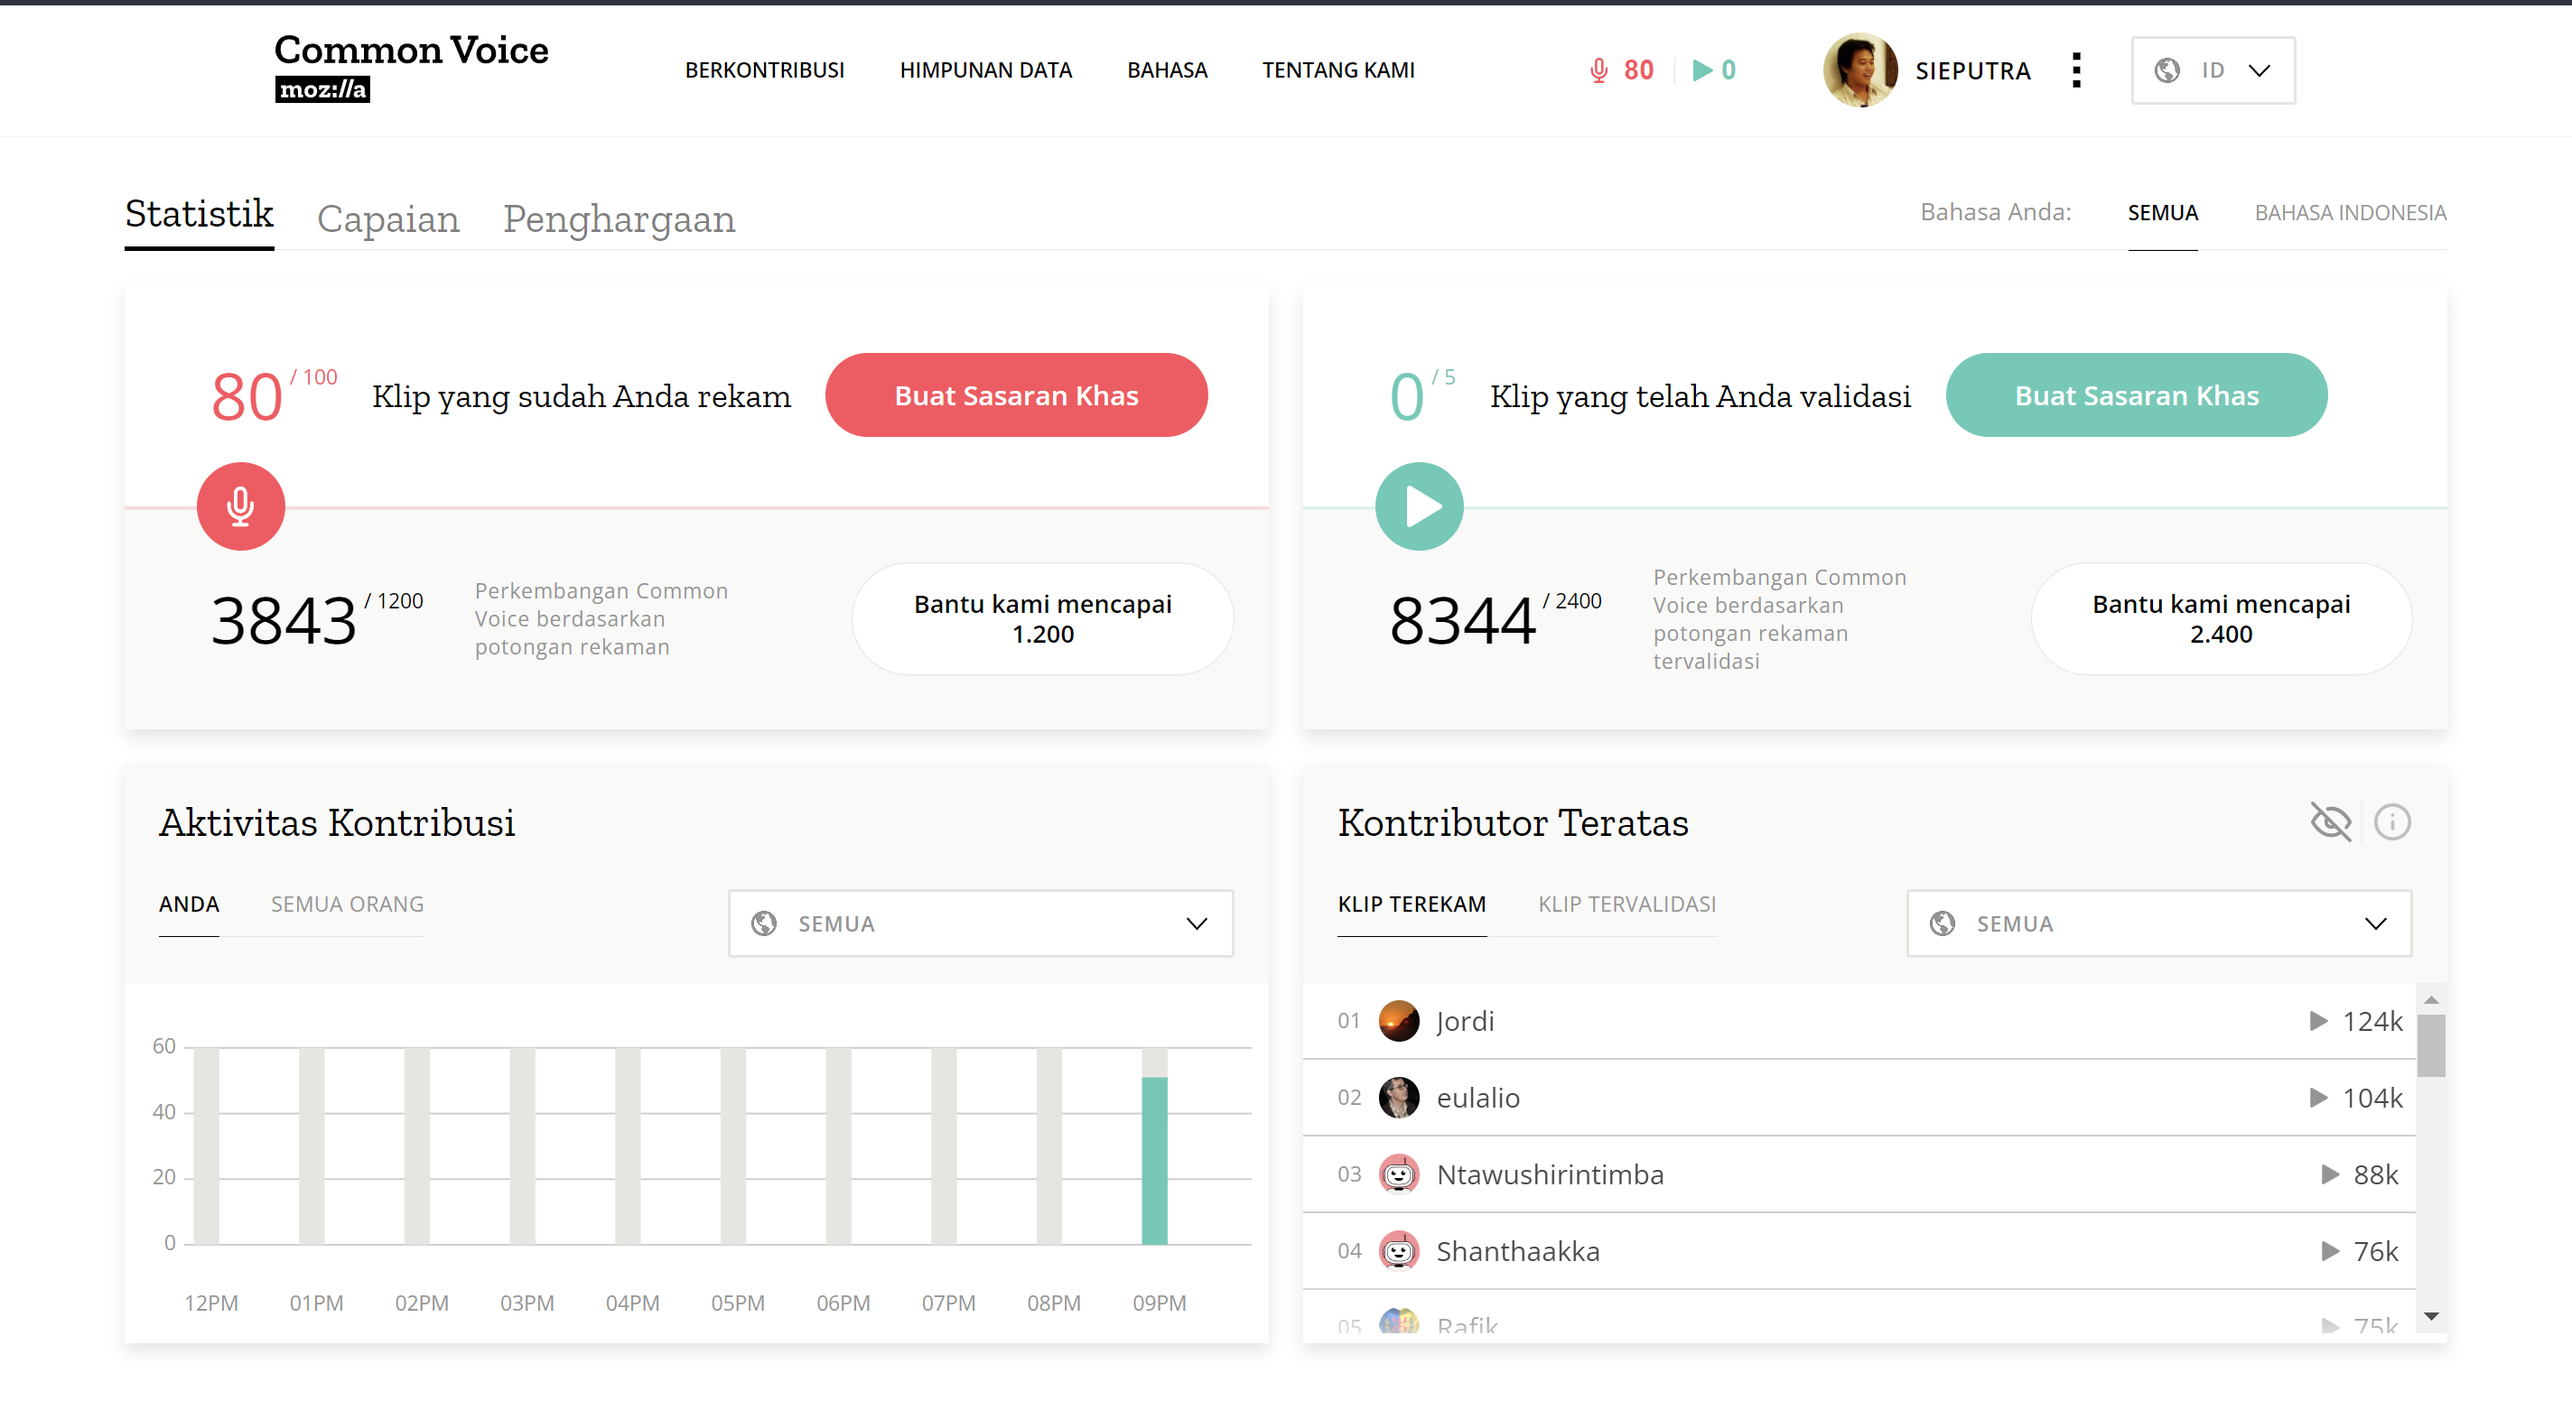
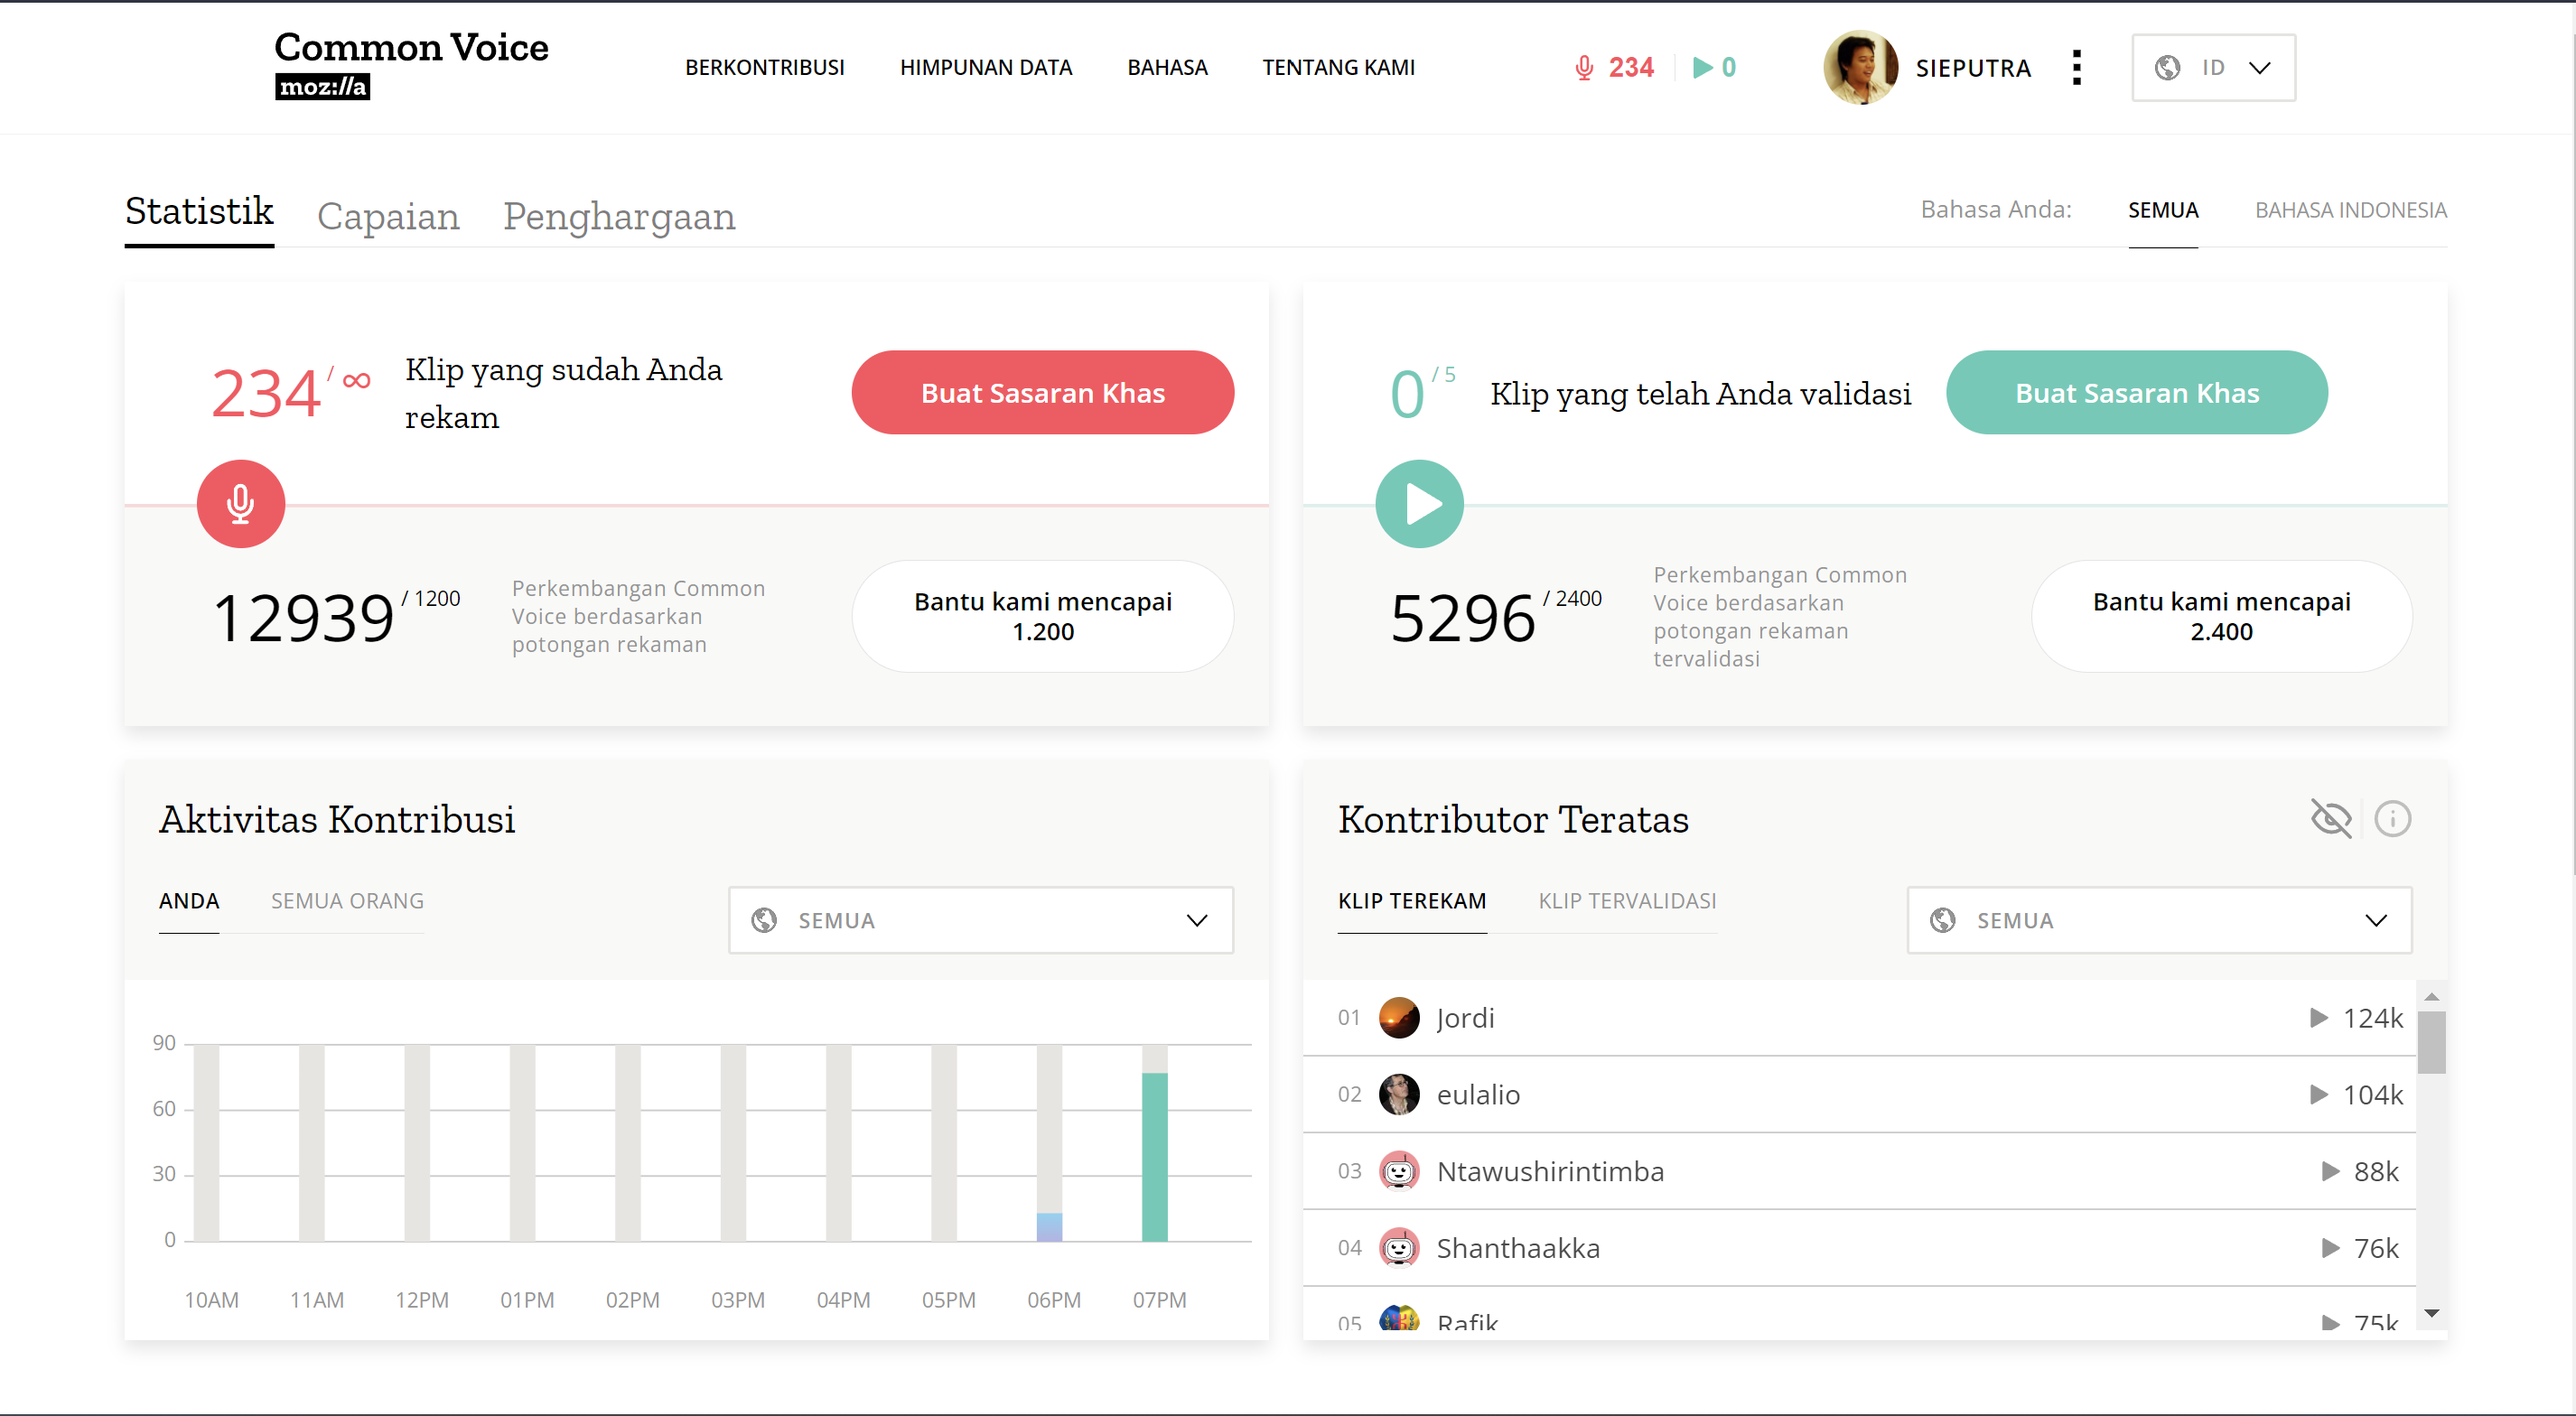
Change readme & change picture with above 60 activity & more of klip recorded

diff --git a/common-voice/sieputra/sieputra.md b/common-voice/sieputra/sieputra.md
@@ -5,7 +5,7 @@
 
 | | Nama/Username common voice | Tanggal | Jam | Jumlah klip | |
 | - | :-: | :-: | :-: | :-: | :-: |
-| | sieputra | 22/10/2022 | 22.00 | ~80 Klip |
+| | sieputra | 23/10/2022 | 19.00 | 234 Klip |
 
 <!-- upload gambar di folder yg sama dan klik copy permalink -->
 ![](https://github.com/sieputra/id-mozilla-hacktoberfest-2022/blob/3fa9bfc9765e082cf2a808c699bcead2d998e1c3/common-voice/sieputra/sieputra.png)
